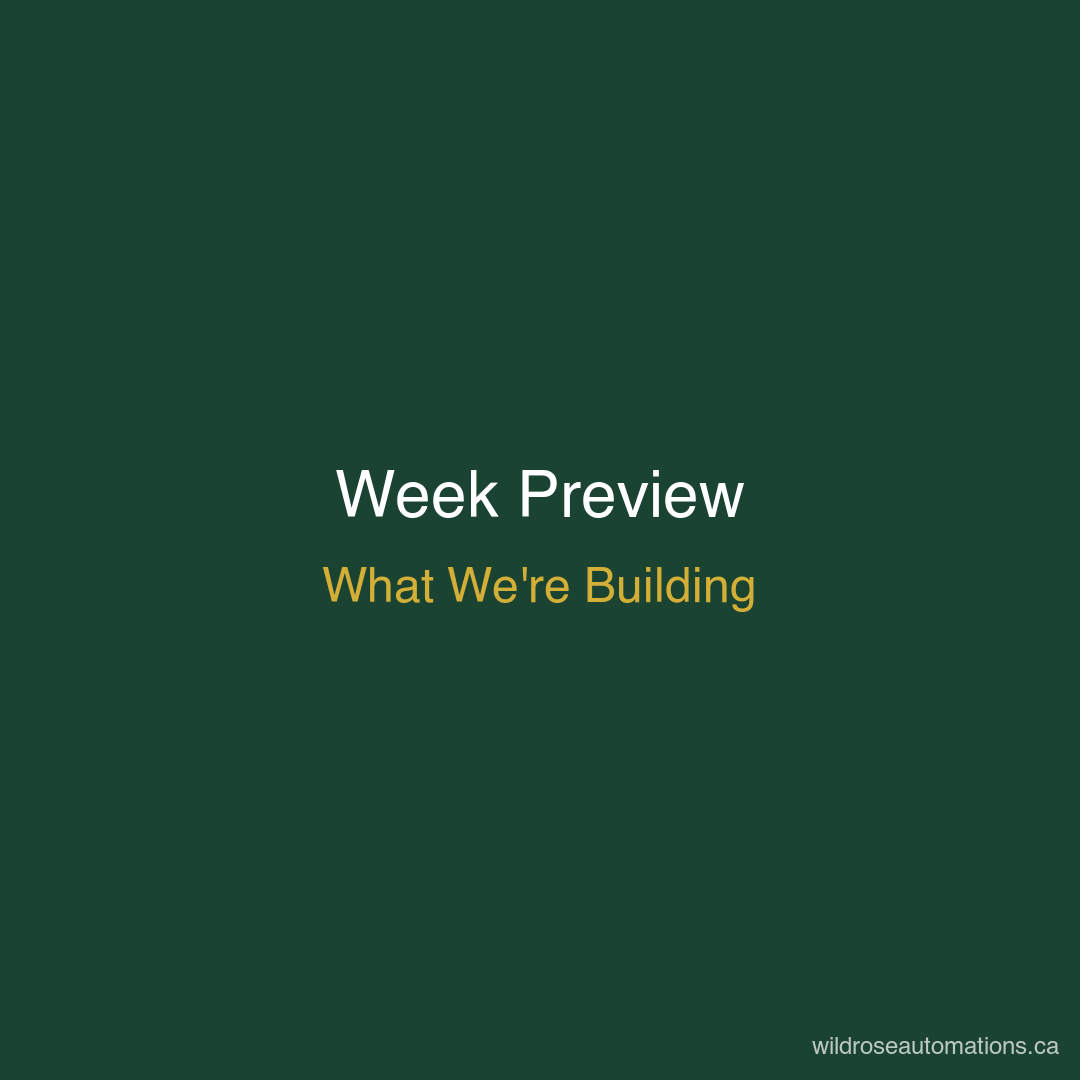
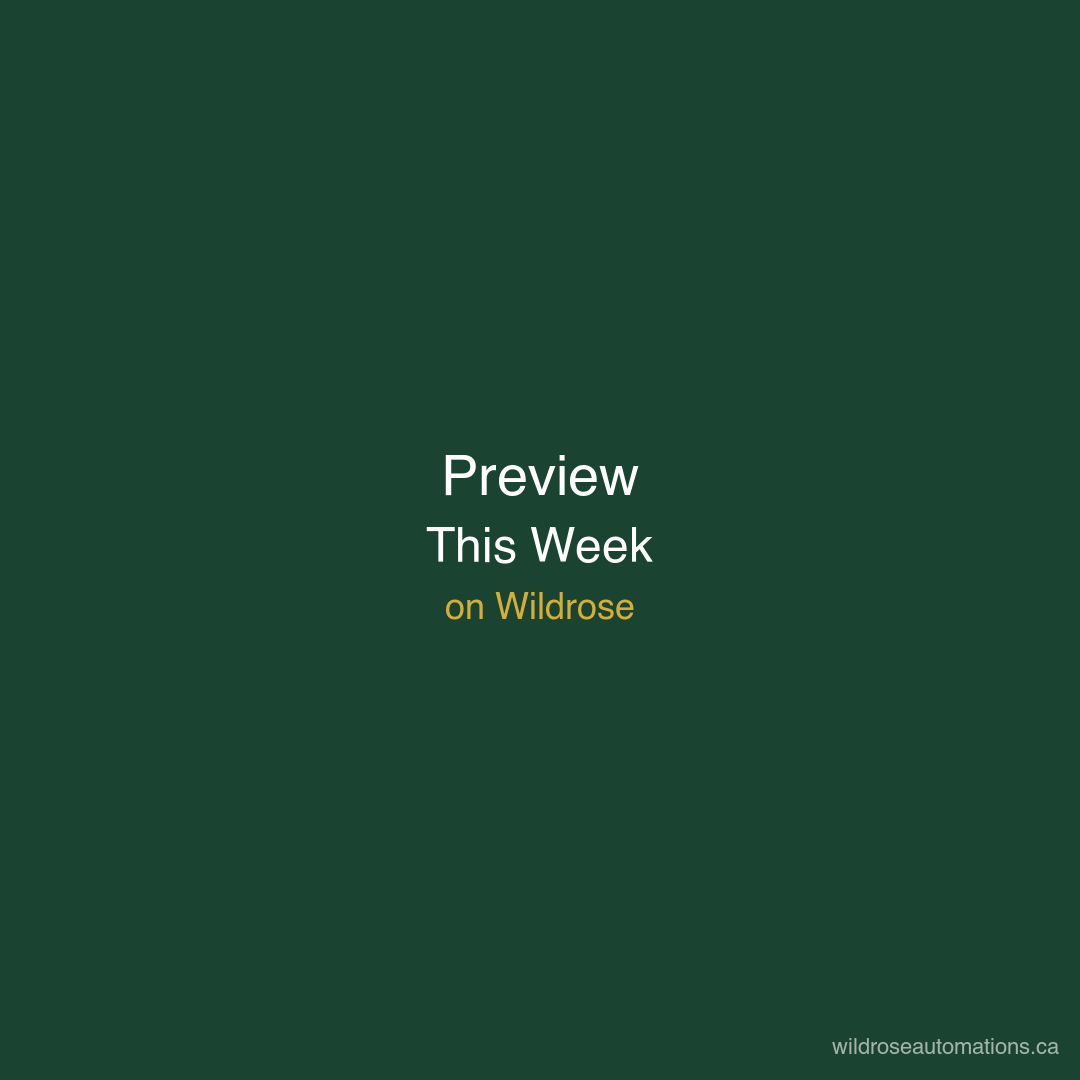
feat: unique content for all 28 posts + captions
- Redesigned all 28 graphics with unique hooks and angles
- Added content-calendar.json with full caption text for each post
- Updated dashboard to show caption previews
- Each post now has unique angle (myths, math, polls, stories, etc.)
- Real engaging copy for Alberta small business audience

Changed region(s): [[0.3056, 0.4278, 0.7028, 0.5806], [0.7639, 0.9472, 0.9778, 0.9778]]

diff --git a/content-approval.html b/content-approval.html
@@ -33,8 +33,9 @@
         .post-card.approved { border-color: #4ade80; }
         .post-card.rejected { border-color: #f87171; opacity: 0.5; }
         
-        .post-preview { width: 100%; height: 180px; background: #1B4332; display: flex; align-items: center; justify-content: center; color: white; font-weight: 600; text-align: center; padding: 10px; font-size: 0.9rem; }
-        .post-time { padding: 10px; background: #f9fafb; font-weight: 600; font-size: 0.85rem; color: #1B4332; }
+        .post-preview { width: 100%; height: 140px; background: #1B4332; display: flex; align-items: center; justify-content: center; color: white; font-weight: 600; text-align: center; padding: 10px; font-size: 0.85rem; line-height: 1.3; }
+        .post-caption { padding: 10px; background: #fafafa; font-size: 0.75rem; color: #4b5563; max-height: 80px; overflow-y: auto; line-height: 1.4; }
+        .post-time { padding: 8px 10px; background: #f9fafb; font-weight: 600; font-size: 0.85rem; color: #1B4332; }
         .post-status { padding: 5px 10px; font-size: 0.75rem; font-weight: 600; text-transform: uppercase; }
         .status-approved { background: #dcfce7; color: #166534; }
         .status-rejected { background: #fee2e2; color: #991b1b; }
@@ -91,46 +92,46 @@
     <script>
         const schedule = {
             'Monday': [
-                { time: '8:00 AM', file: 'mon-8am.png', title: '5 Signs Losing Customers' },
-                { time: '12:00 PM', file: 'mon-12pm.png', title: '$29/month Websites' },
-                { time: '4:00 PM', file: 'mon-4pm.png', title: 'Poll: How Customers Find You' },
-                { time: '7:00 PM', file: 'mon-7pm.png', title: 'Behind the Scenes' }
+                { time: '8:00 AM', file: 'mon-8am.png', title: "Monday Myth: 'I Don't Need a Website'", caption: "I hear this all the time from Alberta business owners. \"My customers find me through word of mouth.\" Cool. But what about the ones who DON'T know you exist yet? They're Googling 'plumber near me' right now and finding your competitors." },
+                { time: '12:00 PM', file: 'mon-12pm.png', title: 'Truth Bomb: Your Competitor Has a Website', caption: "While you're reading this, someone in your city is searching for your service online. They're clicking on your competitor's website. They're calling your competitor. Not because they're better. Because they showed up." },
+                { time: '4:00 PM', file: 'mon-4pm.png', title: 'Quick Question: When Someone Googles You...', caption: "What happens? A) They find your Facebook page from 2019 B) They find nothing C) They find a competitor D) They find YOUR website. If it's anything but D, we need to talk." },
+                { time: '7:00 PM', file: 'mon-7pm.png', title: 'Client Story: Plumber in Edmonton +12 Calls/Week', caption: "Real results: Mike had zero online presence. We built him a simple site in 4 days. 30 days later: on Google's first page, 12+ new calls per week, booked solid for 3 weeks." }
             ],
             'Tuesday': [
-                { time: '8:00 AM', file: 'tue-8am.png', title: 'Why Google Beats Word of Mouth' },
-                { time: '12:00 PM', file: 'tue-12pm.png', title: 'Website in 5 Days' },
-                { time: '4:00 PM', file: 'tue-4pm.png', title: 'What\'s Your Time Suck?' },
-                { time: '7:00 PM', file: 'tue-7pm.png', title: 'Client Win: +5 Calls/Week' }
+                { time: '8:00 AM', file: 'tue-8am.png', title: 'Did You Know? 78% of Customers Google First', caption: "Before they call. Before they visit. Before they even consider your business. 78% of people search online first. So here's the question: when they search, do they find you?" },
+                { time: '12:00 PM', file: 'tue-12pm.png', title: 'The Math: 1 New Customer/Month = Website Paid', caption: "Website: $29/month. One new customer per month: $100-500+. Net gain: $71-471/month. And that's assuming you only get ONE extra customer. The website pays for itself." },
+                { time: '4:00 PM', file: 'tue-4pm.png', title: 'Be Honest... When\'s the Last Time You Checked?', caption: "If someone Googled your business right now, what would they find? Your competitor's website? An old Facebook page? Literally nothing? Go ahead. Google yourself. I'll wait." },
+                { time: '7:00 PM', file: 'tue-7pm.png', title: 'Real Talk: Word of Mouth Isn\'t Enough Anymore', caption: "Word of mouth is great. But it's not a strategy. It's slow. It's unpredictable. Meanwhile, your competitors are showing up on Google, capturing leads 24/7." }
             ],
             'Wednesday': [
-                { time: '8:00 AM', file: 'wed-8am.png', title: 'Competitors Online?' },
-                { time: '12:00 PM', file: 'wed-12pm.png', title: 'Simple. Clean. $29/mo.' },
-                { time: '4:00 PM', file: 'wed-4pm.png', title: 'Quick Question' },
-                { time: '7:00 PM', file: 'wed-7pm.png', title: 'No Website to Page 1' }
+                { time: '8:00 AM', file: 'wed-8am.png', title: 'Wednesday Wisdom: Website + Google = Found 24/7', caption: "Your business doesn't sleep. Neither does Google. Someone in Alberta is searching for your service right now. A website means you're always there. Always ready to be found." },
+                { time: '12:00 PM', file: 'wed-12pm.png', title: 'What You Get: Website + Domain + Hosting = $29', caption: "No hidden fees. No BS. For $29/month: Custom website, Domain registration, Hosting, Mobile-friendly design, Google-visible, Contact form, Monthly updates, Support." },
+                { time: '4:00 PM', file: 'wed-4pm.png', title: 'Poll Time: Website vs. Facebook Page?', caption: "Quick poll: Which is more important for your business? A) A proper website B) A Facebook page C) Both equally D) Neither (word of mouth). Drop your answer below!" },
+                { time: '7:00 PM', file: 'wed-7pm.png', title: 'From Nothing to Google Page 1 in 30 Days', caption: "Another happy client. Started: Nowhere online. 30 days later: First page of Google. Result: 8 new leads in the first week. The secret? Properly built website + basic SEO + Google Business Profile." }
             ],
             'Thursday': [
-                { time: '8:00 AM', file: 'thu-8am.png', title: 'After Hours = Lost $$$' },
-                { time: '12:00 PM', file: 'thu-12pm.png', title: 'Website + Hosting + Updates' },
-                { time: '4:00 PM', file: 'thu-4pm.png', title: 'DM "Website" for Mockup' },
-                { time: '7:00 PM', file: 'thu-7pm.png', title: 'Case Study: Plumber' }
+                { time: '8:00 AM', file: 'thu-8am.png', title: 'Think About It: 24/7 Lead Capture', caption: "It's 11pm. Someone's water heater bursts. They Google '24 hour plumber Calgary'. Your competitor pops up with a big 'CALL NOW' button. You? Nowhere. They call your competitor. You lost $500+ while sleeping." },
+                { time: '12:00 PM', file: 'thu-12pm.png', title: 'No Tech Skills. No Stress. Just Results.', caption: "Not tech-savvy? Don't have time? Wouldn't know where to start? Cool. We handle everything: Design, Setup, Hosting, Updates, Maintenance. You just run your business. That's the deal." },
+                { time: '4:00 PM', file: 'thu-4pm.png', title: 'DM Us "WEB" - We\'ll Build You a Free Mockup', caption: "Not ready to commit? DM us 'WEB' and tell us your business name. We'll create a FREE mockup website. No obligation. No cost. See what your site could look like before you pay a dollar." },
+                { time: '7:00 PM', file: 'thu-7pm.png', title: 'Case Study: Salon in Calgary 3x Bookings', caption: "Before: 8-10 bookings/week through phone + walk-ins. After: 25-30 bookings/week with online booking. 3x increase in 60 days. Cost: $29/month. ROI: About 15,000%." }
             ],
             'Friday': [
-                { time: '8:00 AM', file: 'fri-8am.png', title: 'Friday: Get Online' },
-                { time: '12:00 PM', file: 'fri-12pm.png', title: 'Weekend Special' },
-                { time: '4:00 PM', file: 'fri-4pm.png', title: 'What Would You Automate?' },
-                { time: '7:00 PM', file: 'fri-7pm.png', title: 'Happy Friday Alberta!' }
+                { time: '8:00 AM', file: 'fri-8am.png', title: 'Friday Fact: Online Businesses Grow 40% Faster', caption: "Stat from the U.S. Small Business Administration: Businesses with an online presence grow 40% faster than those without. That's the difference between struggling and having customers find YOU." },
+                { time: '12:00 PM', file: 'fri-12pm.png', title: 'Weekend Ready: Website by Monday - $29 Start', caption: "You could: A) Keep doing what you're doing, or B) Start this weekend and have a website by Monday. If you pick B: Friday we chat, Saturday we design, Sunday you approve, Monday you're LIVE." },
+                { time: '4:00 PM', file: 'fri-4pm.png', title: 'Hot Take: If You\'re Not Online, You\'re Invisible', caption: "In 2026, if someone can't find you online, you might as well not exist. Your ideal customer is searching for you RIGHT NOW. And they're finding your competitor instead. Fix this. $29/month." },
+                { time: '7:00 PM', file: 'fri-7pm.png', title: 'Cheers Alberta - We\'ll Handle Tech', caption: "It's Friday evening. Pour yourself a drink. Relax. While you're unwinding, we could be building your website. Monday morning, you wake up to a brand new online presence. No tech headaches. Just results." }
             ],
             'Saturday': [
-                { time: '8:00 AM', file: 'sat-8am.png', title: 'Weekend: Be Found' },
-                { time: '12:00 PM', file: 'sat-12pm.png', title: 'We Work, You Don\'t' },
-                { time: '4:00 PM', file: 'sat-4pm.png', title: 'What\'s Your Business?' },
-                { time: '7:00 PM', file: 'sat-7pm.png', title: 'Relax. We Got This.' }
+                { time: '8:00 AM', file: 'sat-8am.png', title: 'Saturday Thought: What If You Were Found Today?', caption: "Quick scenario: Someone wakes up, grabs coffee, searches Google for your service. They find your competitor. They call your competitor. All before 9am. Now imagine they find YOU instead. Which do you want?" },
+                { time: '12:00 PM', file: 'sat-12pm.png', title: 'Weekend Work: We Build, You Relax', caption: "Saturday afternoon. You're with family, running errands. Meanwhile, we're building websites. Monday morning, you could have: A live website, Google visibility, 24/7 lead capture. Or exactly what you have now." },
+                { time: '4:00 PM', file: 'sat-4pm.png', title: 'Real Question: What\'s Stopping You?', caption: "What's actually stopping you? Too expensive? ($29/mo) Too complicated? (We handle it) No time? (15 min to start) Don't need one? (Competitors disagree) Procrastinating? (That's fixable)" },
+                { time: '7:00 PM', file: 'sat-7pm.png', title: 'Plot Twist: Your Competitors Already Did This', caption: "You know those competitors who are always busy? The ones with full schedules? Yeah. They have websites. They show up on Google. They get found 24/7. Meanwhile, you're waiting for referrals." }
             ],
             'Sunday': [
-                { time: '8:00 AM', file: 'sun-8am.png', title: 'New Week, New Website?' },
-                { time: '12:00 PM', file: 'sun-12pm.png', title: 'FREE 6 Months Automation' },
-                { time: '4:00 PM', file: 'sun-4pm.png', title: 'Sunday Planning' },
-                { time: '7:00 PM', file: 'sun-7pm.png', title: 'Week Preview' }
+                { time: '8:00 AM', file: 'sun-8am.png', title: 'New Week, New Website, New Customers', caption: "Sunday planning: This week could be different. This could be the week you finally get online, start showing up on Google, stop losing customers, build something that works while you sleep." },
+                { time: '12:00 PM', file: 'sun-12pm.png', title: 'Special Offer: FREE 6 Months Automation', caption: "We're looking for 3 Alberta businesses: FREE automation for 6 months. We'll build: Automated follow-ups, Booking confirmations, Review requests, 24/7 lead capture. Catch: Let us use your results as a case study. DM 'AUTOMATE'." },
+                { time: '4:00 PM', file: 'sun-4pm.png', title: 'Planning Ahead: What\'s Your Goal This Week?', caption: "What's one thing you want to accomplish this week? Get more leads? Save time? Finally get online? Stop losing customers? Whatever it is, there's probably a way we can help. Drop your goal below." },
+                { time: '7:00 PM', file: 'sun-7pm.png', title: 'Preview: This Week on Wildrose', caption: "Tomorrow's Monday. New posts, new tips, new ways to help Alberta businesses grow. Client success stories, website tips that work, industry advice, maybe some memes. Turn on notifications or check back Monday." }
             ]
         };
 
@@ -262,9 +263,15 @@
                     const statusClass = `status-${state}`;
                     const statusText = state.charAt(0).toUpperCase() + state.slice(1);
                     
+                    // Truncate caption for preview
+                    const captionPreview = post.caption.length > 100 
+                        ? post.caption.substring(0, 100) + '...' 
+                        : post.caption;
+                    
                     card.innerHTML = `
                         <div class="post-preview">${post.title}</div>
                         <div class="post-time">${post.time}</div>
+                        <div class="post-caption">${captionPreview}</div>
                         <div class="post-status ${statusClass}">${statusText}</div>
                         <div class="post-actions">
                             <button class="btn ${state === 'approved' ? 'btn-approve-active' : 'btn-primary'}" onclick="setPostState('${post.file}', 'approved')">
